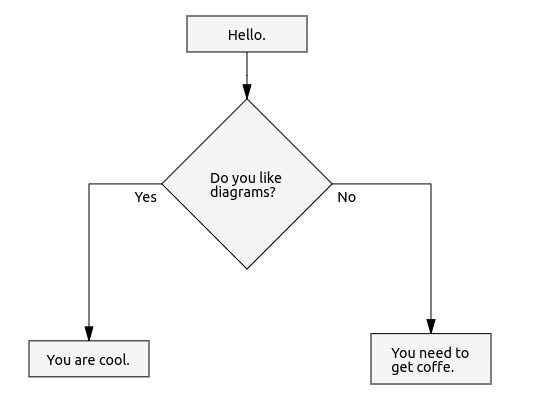
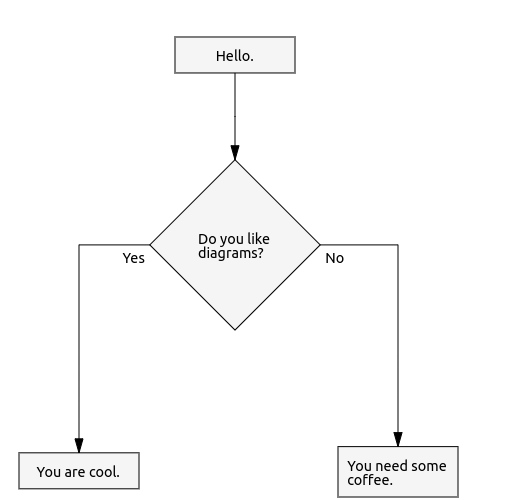
Fixed double content in blocks and README improovements

diff --git a/src/shape.js b/src/shape.js
@@ -1,27 +1,38 @@
 import { PADDING as P } from './Renderer'
 
-export function block(d) {
+export function auto(d) {
   let l = d.layout;
 
   switch (d.blockType.toUpperCase()) {
     case 'PROCESS':
-      return process(0, 0, l.w, l.h);
+      return rectanglePath(0, 0, l.w, l.h);
     case 'NODE':
-        return process(0, 0, l.w, l.h);
+        return circlePath(0, 0,  Math.sqrt(l.w*l.w + l.h*l.h)/2);
     case 'CONDITION':
-      return condition(0, 0, l.w, l.h)
+      return diamondPath(0, 0, l.w, l.h)
   }
 }
 
-function process(x, y, w, h) {
+export function circle(d) {
+  let l = d.layout;
+  return circlePath(0,0, Math.sqrt(l.w*l.w + l.h*l.h)/4);
+}
+
+function rectanglePath(x, y, w, h) {
   return `M${x-w/2-P} ${y-h/2 - P}h${w+2*P}v${h+2*P}h${-w-2*P}Z`;
 }
 
-function condition(x, y, w, h) {
+function diamondPath(x, y, w, h) {
   let ww = w+h + 4*P;
   return `M${0} ${y-ww/2}
           L${x+ww/2} 0
           L0 ${y + ww/2}
           L${x-ww/2} 0
           Z`
+}
+
+function circlePath(x,y,r) {
+  return `M${x-r} ${y}
+          a ${r} ${r} 0 1 0 ${r*2} 0
+          a ${r} ${r} 0 1 0 ${-r*2} 0`
 }

diff --git a/src/Renderer.js b/src/Renderer.js
@@ -7,7 +7,7 @@ import { zoomTransform  as d3zoomTransform } from 'd3-zoom';
 
 import { hierarchy as d3Hierarchy, tree as d3Tree } from 'd3-hierarchy';
 import { head as linkHead, tail as linkTail } from './link';
-import { block as blockShape } from './shape';
+import { auto as autoShape } from './shape';
 
 
 export const PADDING = 10;
@@ -256,7 +256,7 @@ export class Renderer {
 
 
       text.attr('transform', `translate(${-(bbox.width)  / 2} ${-(bbox.height)/2})`)
-      path.attr('d', blockShape);
+      path.attr('d', autoShape);
       block.attr('overflow', 'auto');
 
       bbox = path.node().getBBox();
@@ -338,7 +338,7 @@ export class Renderer {
     let words = text.split(' ');
 
     let tSpan = document.createElementNS("http://www.w3.org/2000/svg", "tspan");
-    tSpan.innerHTML = words[0];
+    tSpan.innerHTML = words.shift();
 
     tSpan.setAttribute("y", fontSize);
     tSpan.setAttribute("x", 0);
